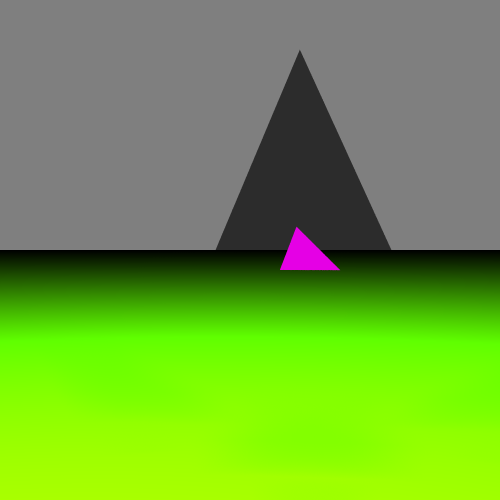
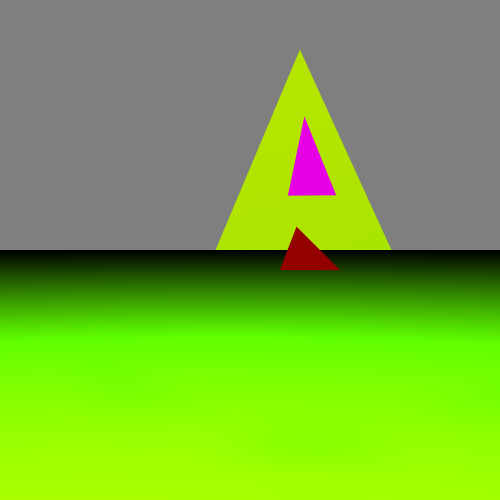
getReflectionColor bug fix.

Changed region(s): [[0.42, 0.09, 0.78, 0.54]]

diff --git a/src/RayTracing/Sphere.java b/src/RayTracing/Sphere.java
@@ -20,7 +20,7 @@ public class Sphere extends Primitive {
 		//Calculations were took from Dani's presentation.
 		Vector L = origin.substract(r.getOrigin());
 		double t_ca = L.dotProduct(r.getVector());
-		if (t_ca < 0)// && (origin.substract(r.getOrigin()).magnitude() > radius))
+		if ((t_ca < 0) && (origin.substract(r.getOrigin()).magnitude() > radius))
 			return null;
 
 		double d_squared = Vector.dotProduct(L, L) - t_ca * t_ca;
@@ -39,11 +39,12 @@ public class Sphere extends Primitive {
 		//take only one solution: (t_hc - t_ca) or (t_hc + t_ca) (calcs explanations are not included here yet)
 		if (origin.substract(r.getOrigin()).magnitude() < radius)
 		{
-			
-			double t3 = t_hc + t_ca;
-			intersection_points[0] =  r.getOrigin().add(r.getUnitTimes(t3));
+			intersection_points[0] = null;
+		}
+		else{
 			intersection_points[1] = null;
 		}
+
 		
 		return intersection_points;
 	}
@@ -98,9 +99,9 @@ public class Sphere extends Primitive {
 		
 		Material m = set.getMaterial(matInx);
 		if (m != null){
-			Material mtag = new Material(m);
-			mtag.makeMoreTransparent();
-			return new Sphere(mtag, new Vector(px,py,pz), rd);			
+			//Material mtag = new Material(m);
+			//mtag.makeMoreTransparent();
+			return new Sphere(m, new Vector(px,py,pz), rd);
 		}
 		else
 			throw new RayTracerException("Sphere material index error!");

diff --git a/src/RayTracing/Set.java b/src/RayTracing/Set.java
@@ -369,8 +369,8 @@ public class Set {
 			Vector N = closest_primitive.normalAtIntersection(ray_in);
 			Vector ray_out_vector = V.substract(N.timesScalar(V.dotProduct(N) * 2));
 
-			Vector orig_go_back_a_little = new Vector(closest_intersection.substract(ray_out_vector.timesScalar(Math.pow(10, -10))));//TODO: think about the correct timesScalar(?)
-			Ray ray_out = new Ray(orig_go_back_a_little, ray_out_vector);
+			Vector orig_go_front_a_little = new Vector(closest_intersection.add(ray_out_vector.timesScalar(go_a_little_factor)));
+			Ray ray_out = new Ray(orig_go_front_a_little, ray_out_vector);
 
 			return getColorAtIntersectionOfRay(ray_out, depth + 1);
 		} catch (RayTracerException e) {
